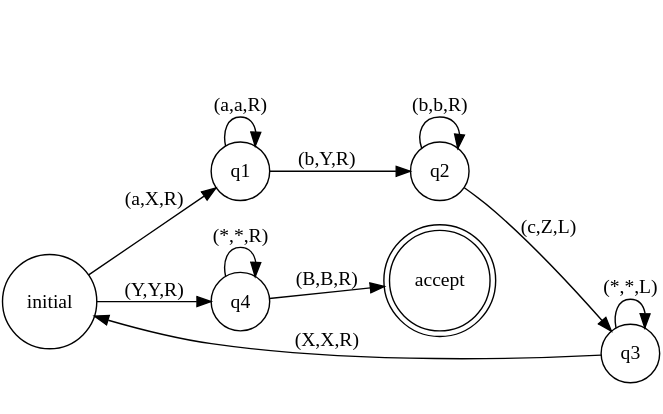
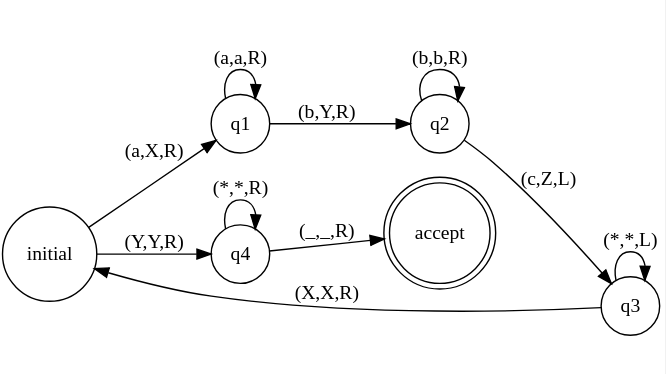
readme

diff --git a/README.md b/README.md
@@ -1,5 +1,50 @@
-# Exercicios-Maquina-Turing
+# Máquinas de Turing e Computabilidade
+Este trabalho consiste na resolução de uma série de questões sobre Máquinas de Turing.
+Dever´a ser entregue um arquivo com as respostas das quest˜oes, contendo, no m´ınimo,
+cabeçalho com identificação do trabalho, da disciplina, do curso e do aluno. Em todas as questões onde for pedido que seja construída uma Máquina de Turing, deve ser entregue o
+diagrama da Máquina de Turing, e também um arquivo TXT com a definição da Máquina
+de Turing no formato do simulador Morphett.
 
 
-Construa uma M´aquina de Turing que reconhe¸ca a linguagem {0n1n| n ≥ 1}.
+### Informações gerais
+- **Autor**: Lucas Gomes Flegler
+- **Linguagem de programação**: Turing machine Morphett e biblioteca Digraph
+- **Ambiente de desenvolvimento**: Turing machine Morphett Simulator
 
+### Descrição geral do do trabalho
+O trabalho está estruturado da seguinte maneira:
+
+```
+src
+|_ codigo-Digraph
+    |_questao1.txt
+    ...
+    |_ questao9.txt
+|_ codigo-Morphet
+    |_questao1.txt
+    ...
+    |_ questao9.txt
+|_ imagens
+    |_questao1.png
+    ...
+    |_ questao9.png
+
+```
+
+
+#### Diretorio codigo-Digraph
+Diretório que contém todos os codigos utilizados para geração do diagrama. Pra este trabalho, foi utilizado a biblioteca Graphviz para desenhar o diagrama da Máquina de Turing.
+
+##### Diretorio codigo-Morphet
+Diretório que contém todos os códigos fonte utilizados para a definição da Máquina
+de Turing no formato do simulador Morphett.
+
+
+##### Diretorio imagens
+Diretório que contém todas as imagens geradas pela biblioteca digraph.
+
+
+#### Referências
+http://morphett.info/turing/turing.html
+
+https://dreampuf.github.io/GraphvizOnline 
